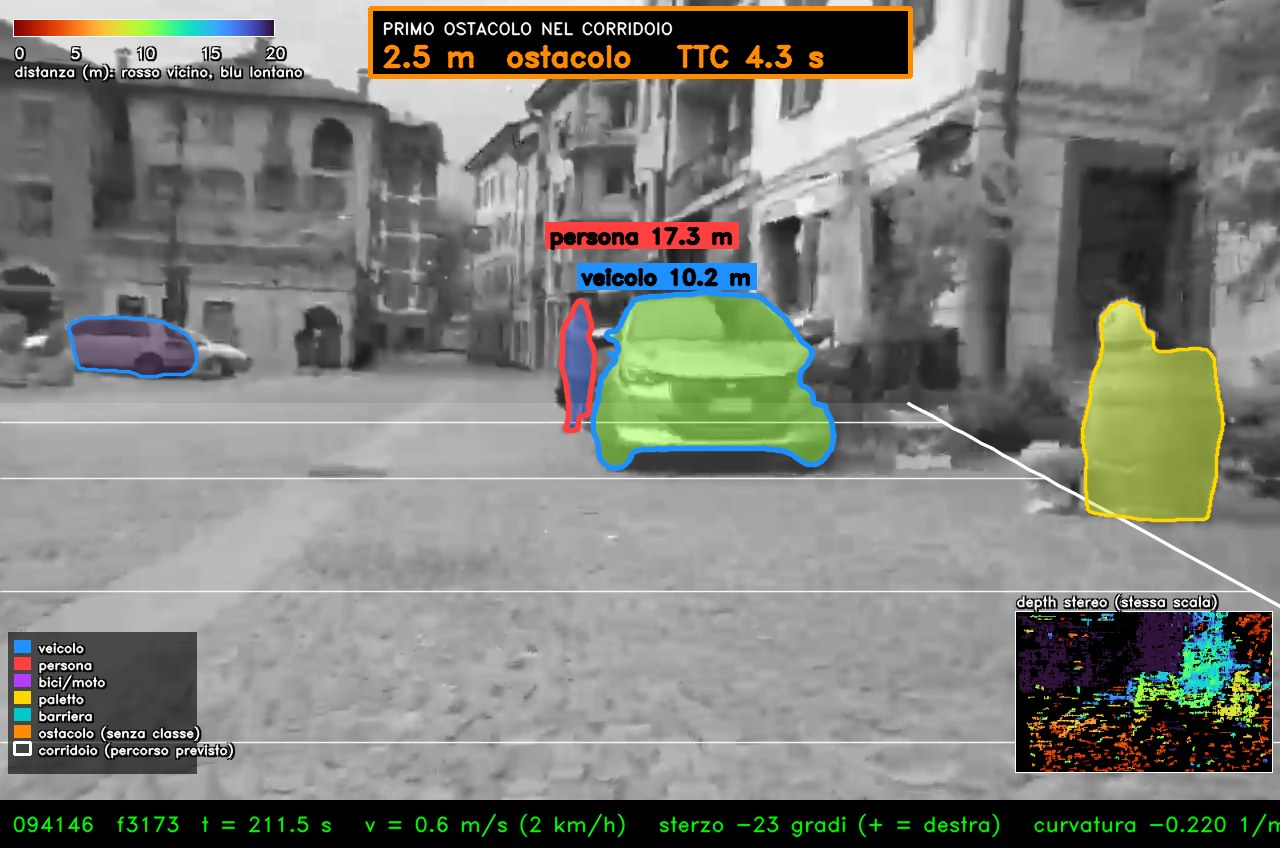
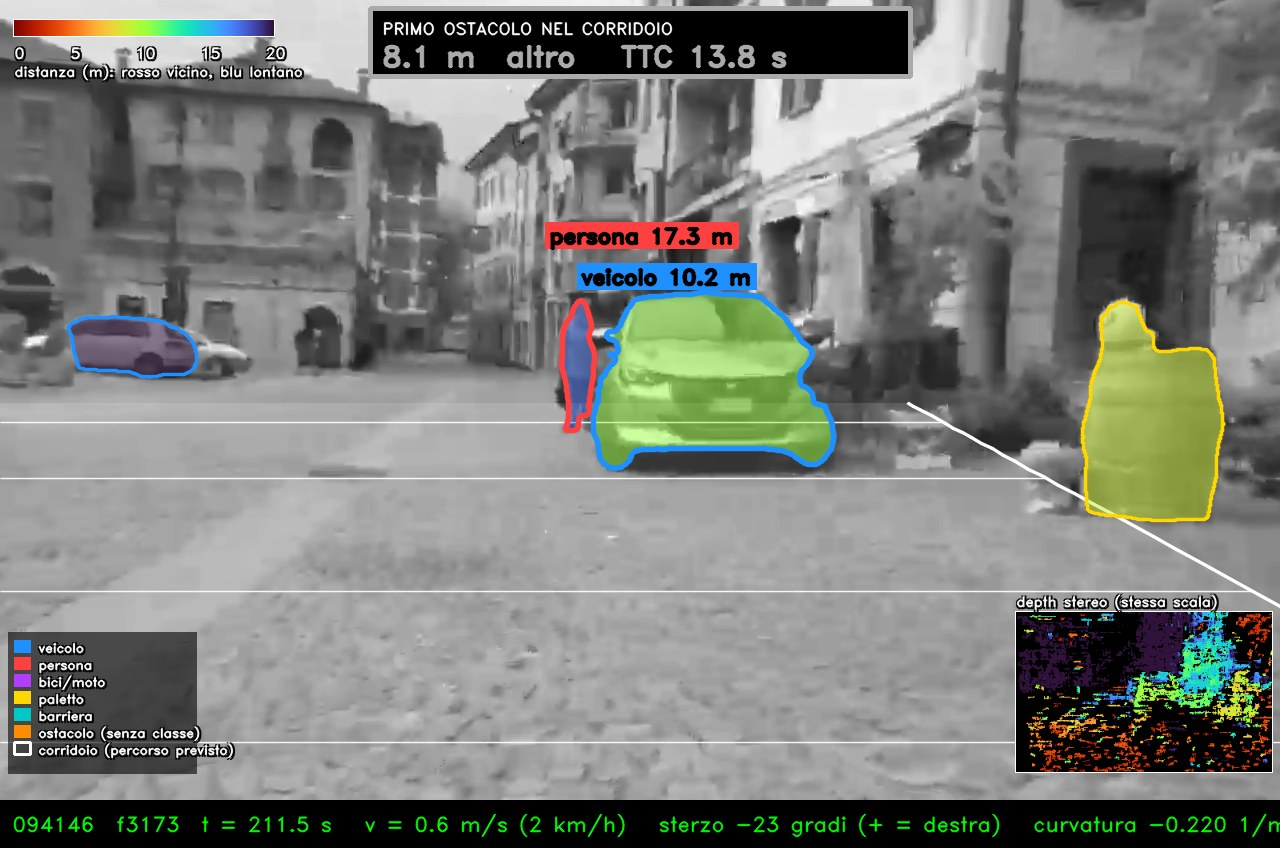
depth video #001 giro 8: box coast senza passo doppio e <50% dentro mai primo ostacolo, blob senza base sul piano strada (<5 m, non persone/veicoli) esclusi, corridoio limite dichiarato

Changed region(s): [[0.2812, 0.0, 0.7188, 0.092]]

diff --git a/projects/asmile/training/depth/video_fluido_001.py b/projects/asmile/training/depth/video_fluido_001.py
@@ -13,11 +13,13 @@ import depth_seg_001 as D
 from ego_001 import Ego, x_path, path_xz, x_arc
 
 W, H, BAR = 1280, 800, 48
-MODE = os.environ.get("VFMODE", "v7")          # "v6" = regole del giro 6 (per il prima/dopo), "v7" = regole del giro 7
+MODE = os.environ.get("VFMODE", "v8")          # "v6"/"v7" = regole dei giri 6/7 (per il prima/dopo), "v8" = v7 + correzioni bug del giro 8
+V7 = MODE in ("v7", "v8")
+V8 = MODE == "v8"
 PURE = os.environ.get("VF_PURE", "1") == "1"      # v7: terza ipotesi = arco a curvatura costante (il percorso reale in curva stretta si avvolge piu' del previsto)
 EXTRA = float(os.environ.get("VF_EXTRA", "0.1"))   # allargamento aggiuntivo del corridoio per m di distanza (m/m), 0 = nessuno
 OUT_A = os.path.join(D.HERE, "out_20261112_v6")  # stadio A (misure per fotogramma) INVARIATO: riletto da v6
-OUT = os.environ.get("VF_OUT", os.path.join(D.HERE, "out_20261112_v7"))
+OUT = os.environ.get("VF_OUT", os.path.join(D.HERE, "out_20261112_v8"))
 os.makedirs(OUT, exist_ok=True)
 Z_RAW_GAP, Z_RAW_MAXZ = 0.7, 8.0   # v7 punto 3: se Z_filtrata - Z_grezza > 0.7 m sotto 8 m si usa la grezza (vince la piu' vicina)
 HITS_BLOB_NEAR, ZNEAR_BLOB = 3, 5.0  # v7 punto 1: sotto 5 m un blob senza classe conferma a 3 fotogrammi come gli altri
@@ -47,7 +49,7 @@ def wband(Z): return 1.5 + 0.03 * Z
 
 def corr_edges(xc, Z):
     """bordi laterali del corridoio disegnato: v6 = banda attorno al percorso curvo; v7 = inviluppo delle due ipotesi (percorso curvo e dritto)"""
-    if MODE != "v7": return xc - wband(Z), xc + wband(Z)
+    if not V7: return xc - wband(Z), xc + wband(Z)
     w = wband(Z) + EXTRA * Z
     return min(xc, 0.0) - w, max(xc, 0.0) + w   # (l'arco puro, terza ipotesi, vale per la classificazione degli oggetti; il disegno mostra l'inviluppo dritto/decrescente)
 
@@ -55,8 +57,31 @@ def corr_edges(xc, Z):
 def need_hits(r):
     """fotogrammi richiesti perche' un oggetto conti come candidato/si disegni: blob 8 (v6); in v7 sotto 5 m anche i blob 3"""
     if r["src"] != "blob": return CONFIRM
-    if MODE == "v7" and r["Z"] < ZNEAR_BLOB: return HITS_BLOB_NEAR
+    if V7 and r["Z"] < ZNEAR_BLOB: return HITS_BLOB_NEAR
     return HITS_BLOB
+
+
+def inside_frac(b):
+    """frazione dell'area del box dentro l'immagine rettificata W x H"""
+    a = max(1e-9, (b[2] - b[0]) * (b[3] - b[1]))
+    return max(0, min(b[2], W) - max(b[0], 0)) * max(0, min(b[3], H) - max(b[1], 0)) / a
+
+
+MIN_INSIDE = 0.5      # v8: un box con meno del 50% dentro l'immagine non puo' essere primo ostacolo
+H_BASE_MIN, Z_BASE_MAX = 0.25, 5.0   # v8: base a meno di 0.25 m dal piano strada (come hmin delle versioni 2/3); regola solo sotto 5 m
+BASE_EXEMPT = ("persona", "veicolo")
+
+
+def base_height(r, gp):
+    """altezza (m) sul piano strada del punto piu' basso del box alla distanza misurata Z: h = CAM_H (d - d_g)/d, d = F B / Z, d_g = disparita' della strada nella riga y1 del box
+    (stessa formula di depth_seg_001.obstacles). None se la base non e' visibile (box tagliato dal bordo basso) o se non c'e' piano."""
+    if gp is None: return None
+    b = r["box"]
+    if b[3] >= H - 6: return None
+    ga, gvh, gb = gp
+    d = F_PX * B_M / max(r["Z"], 0.3); dg = ga * (b[3] - gvh)
+    if dg <= 0: return D.CAM_H
+    return float(D.CAM_H * (d - dg) / d)
 
 
 def iou(a, b):
@@ -87,6 +112,11 @@ class Track:
 
     @staticmethod
     def sig(Z): return float(np.hypot(0.03 * Z, Z * Z * 0.4 / (F_PX * B_M)))
+
+    def box_now(s):
+        """box nella posizione corrente del centro (tr.cen e' gia' stato avanzato di vel+rot a ogni fotogramma perso): v8 usa questo, NON un ulteriore passo di vel"""
+        w = s.box[2] - s.box[0]; h = s.box[3] - s.box[1]
+        return [s.cen[0] - w / 2, s.cen[1] - h / 2, s.cen[0] + w / 2, s.cen[1] + h / 2]
 
     def pred_box(s, rot=0.0):
         c = s.cen + s.vel + np.array([rot, 0.0]); w = s.box[2] - s.box[0]; h = s.box[3] - s.box[1]
@@ -156,10 +186,10 @@ def run_tracking(frames, ego, famv2):
         for tr in tracks:
             if tr.hits >= CONFIRM and tr.miss <= COAST:
                 tr.fam = max(set(tr.fams[-15:]), key=tr.fams[-15:].count)
-                pb = [int(v) for v in tr.pred_box(0.0)] if tr.miss else list(tr.o["box"])
+                pb = ([int(v) for v in (tr.box_now() if V8 else tr.pred_box(0.0))]) if tr.miss else list(tr.o["box"])
                 zf = float(tr.x[0]); zr = float(tr.o["Z_picco"]); zu = zf
-                if MODE == "v7" and not tr.miss and zf - zr > Z_RAW_GAP and zf < Z_RAW_MAXZ: zu = zr    # punto 3: il filtro non allontana: vince la grezza (piu' vicina)
-                rows.append(dict(id=tr.id, fam=tr.fam, src=tr.src, classe=tr.classe, Z=zu, Zf=zf, rawfix=zu != zf, w=float(tr.x[1]), Zraw=float(tr.o["Z_picco"]), tan=float(tr.tan), box=pb, poly=None if tr.miss else tr.o["poly"],
+                if V7 and not tr.miss and zf - zr > Z_RAW_GAP and zf < Z_RAW_MAXZ: zu = zr    # punto 3: il filtro non allontana: vince la grezza (piu' vicina)
+                rows.append(dict(inside=inside_frac(pb), id=tr.id, fam=tr.fam, src=tr.src, classe=tr.classe, Z=zu, Zf=zf, rawfix=zu != zf, w=float(tr.x[1]), Zraw=float(tr.o["Z_picco"]), tan=float(tr.tan), box=pb, poly=None if tr.miss else tr.o["poly"],
                                  decl=bool(np.mean(tr.decl[-8:]) > 0.5), sosp=bool(np.mean(tr.sosp[-8:]) > 0.5), ext=tr.o.get("ext", False), hits=tr.hits, coast=tr.miss > 0, track=tr))
         per.append(rows)
     return per
@@ -168,21 +198,25 @@ def run_tracking(frames, ego, famv2):
 def corridor_logic(per, frames, ego):
     """per ogni fotogramma: arco (k), appartenenza arco/dritta con isteresi, primo ostacolo (isteresi 0.5 m)"""
     res = []; prev_first = {"arc": None, "str": None}
-    for fr, rows in zip(frames, per):
-        k = float(ego.at(fr["t_ms"], "k")); pz, px = path_xz(k)
+    for fi, (fr, rows) in enumerate(zip(frames, per)):
+        k = float(ego.at(fr["t_ms"], "k")); pz, px = path_xz(k); gpf = smooth_gp(frames, fi) if V8 else None
         for r in rows:
             Z = r["Z"]; X = r["tan"] * Z; r["X"] = X
             dx_arc = X - float(np.interp(Z, pz, px)); tr = r["track"]
-            lim = (wband(Z) + (EXTRA * Z if MODE == "v7" else 0.0)) * (1.15 if tr.in_arc else 1.0)
+            lim = (wband(Z) + (EXTRA * Z if V7 else 0.0)) * (1.15 if tr.in_arc else 1.0)
             tr.in_arc = abs(dx_arc) <= lim; r["in_arc"] = tr.in_arc
             r["in_str"] = abs(X) <= wband(Z)
-            if MODE == "v7":   # punto 2: corridoio = unione delle ipotesi (percorso curvo O dritto), ognuna con la sua banda
+            if V7:   # punto 2: corridoio = unione delle ipotesi (percorso curvo O dritto), ognuna con la sua banda
                 lim2 = (wband(Z) + EXTRA * Z) * (1.15 if tr.in_str else 1.0)
                 tr.in_str = abs(X) <= lim2
                 r["in_arc_pure"] = r["in_arc"]; r["in_arc"] = bool(r["in_arc"] or tr.in_str); r["in_str"] = bool(r["in_str"] or tr.in_str)
                 if PURE and not r["in_arc"]:
                     r["in_arc"] = bool(abs(X - float(x_arc(k, Z))) <= wband(Z) + EXTRA * Z)
             r["cand"] = (not r["decl"]) and (not r["sosp"]) and r["hits"] >= need_hits(r)
+            r["fuori_img"] = bool(V8 and r["inside"] < MIN_INSIDE)
+            hb = base_height(r, gpf) if (V8 and r["Z"] < Z_BASE_MAX and r["fam"] not in BASE_EXEMPT) else None
+            r["h_base"] = hb; r["senza_base"] = bool(hb is not None and hb >= H_BASE_MIN)
+            if r["fuori_img"] or r["senza_base"]: r["cand"] = False
         first = {}
         for key, flag in (("arc", "in_arc"), ("str", "in_str")):
             c = [r for r in rows if r[flag] and r["cand"]]
@@ -241,7 +275,7 @@ def draw(img, fr, rows, cs, gp, zthumb, ego, sess, t0, i):
             if 0 < pts[0][1] < H - 10:
                 cv2.line(out, pts[0], pts[1], CORR, 1, cv2.LINE_AA); shadow(out, min(pts[0][0], pts[1][0]) + 8, pts[0][1] - 5, f"{Zt} m", 0.5, CORR, 1)
     first = cs["first"]["arc"]; fid = None if first is None else first["id"]
-    draw_rows = [r for r in rows if not r["coast"] and r["Z"] <= 40 and not r["decl"] and not (r["src"] == "blob" and r["hits"] < need_hits(r)) and not r["sosp"]
+    draw_rows = [r for r in rows if not r["coast"] and r["Z"] <= 40 and not r["decl"] and not (r["src"] == "blob" and r["hits"] < need_hits(r)) and not r["sosp"] and not r.get("fuori_img") and not r.get("senza_base")
                  and (r["src"] != "blob" or (r["in_arc"] and r["Z"] <= 8)) and (r["fam"] in ("persona", "veicolo", "bici-moto", "paletto-palo", "barriera-cancello", "ostacolo") or r["in_arc"] or r["Z"] < 8)]
     solid = [r for r in draw_rows if r["src"] != "blob"]
     cont_ = lambda a, b: max(0, min(a[2], b[2]) - max(a[0], b[0])) * max(0, min(a[3], b[3]) - max(a[1], b[1])) / max(1e-9, (a[2] - a[0]) * (a[3] - a[1]))
@@ -257,7 +291,7 @@ def draw(img, fr, rows, cs, gp, zthumb, ego, sess, t0, i):
         if r["poly"] is not None and len(r["poly"]) >= 3: cv2.polylines(out, [np.asarray(r["poly"], np.int32)], True, fc, th, cv2.LINE_AA)
         else: b = r["box"]; cv2.rectangle(out, (b[0], b[1]), (b[2], b[3]), fc, th)
     for r in [q for q in rows if not q["coast"]]:   # scartati/declassati: contorno grigio sottile se vicini
-        if (r["decl"] or r["sosp"]) and r["Z"] < 8 and r["poly"] is not None and len(r["poly"]) >= 3: cv2.polylines(out, [np.asarray(r["poly"], np.int32)], True, (110, 110, 110), 1, cv2.LINE_AA)
+        if (r["decl"] or r["sosp"] or r.get("senza_base")) and r["Z"] < 8 and r["poly"] is not None and len(r["poly"]) >= 3: cv2.polylines(out, [np.asarray(r["poly"], np.int32)], True, (110, 110, 110), 1, cv2.LINE_AA)
     if first is not None and not first["coast"]:
         b = first["box"]; cv2.rectangle(out, (b[0] - 4, b[1] - 4), (b[2] + 4, b[3] + 4), (255, 255, 255), 3)
     placed = []

diff --git a/projects/asmile/training/depth/verifica_v8_001.py b/projects/asmile/training/depth/verifica_v8_001.py
@@ -1,0 +1,83 @@
+#!/usr/bin/env python3
+"""verifica_v8_001.py (= verifica_v7 + elenco dei veri mancati con causa) — confronto prima/dopo del giro 7/8 (12/11/2026) con la traiettoria REALE ricostruita (encoder ruota + giroscopio gz, integrati nel tempo)
+e oggetti considerati FERMI (posizione mondo = mediana sulla vita della traccia, retrospettiva). Regole fissate prima:
+ - verita' 'in percorso reale': distanza minima dell'oggetto dai punti reali percorsi dalla bici da t fino a s(t)+Z+2 m <= 1.5 m; tracce con >=6 fotogrammi di vita, non declassate/sospette;
+ - verita' primo ostacolo <5 m = oggetto vero piu' vicino in percorso reale con Z<5;
+ - ritardo = corsa piu' lunga di fotogrammi consecutivi con verita' <5 m presente e primo ostacolo del sistema (corridoio) assente o >=5 m.
+Uso: verifica_v7_001.py DIR_TRACKS [SESSIONE]"""
+import sys, os, pickle, json, numpy as np
+from ego_001 import Ego
+d = sys.argv[1]; sess = sys.argv[2] if len(sys.argv) > 2 else "20261109_094146"
+T = pickle.load(open(os.path.join(d, f"tracks_{sess}.pkl"), "rb")); ego = Ego("session_" + sess)
+t = np.array(T["t_ms"]); n = len(t)
+# traiettoria reale su griglia ego
+psi = np.concatenate([[0], np.cumsum(np.radians(0.5 * (ego.yaw_s[1:] + ego.yaw_s[:-1])) * np.diff(ego.t) / 1000)])
+vv = ego.v_s; pe = np.concatenate([[0], np.cumsum(0.5 * (vv[1:] + vv[:-1]) * np.diff(ego.t) / 1000)])
+pn = np.concatenate([[0], np.cumsum(np.cos(psi[:-1]) * 0.5 * (vv[1:] + vv[:-1]) * np.diff(ego.t) / 1000)])
+pe = np.concatenate([[0], np.cumsum(np.sin(psi[:-1]) * 0.5 * (vv[1:] + vv[:-1]) * np.diff(ego.t) / 1000)])
+sarc = ego.s - ego.s[0]
+I = lambda a, x: np.interp(x, ego.t, a)
+# posizione mondo di ogni traccia (mediana)
+W = {}
+for i, rows in enumerate(T["per"]):
+    for r in rows:
+        if r["coast"]: continue
+        ps, e0, n0 = I(psi, t[i]), I(pe, t[i]), I(pn, t[i]); Z = r["Z"]; X = r["tan"] * Z
+        W.setdefault(r["id"], []).append((e0 + Z * np.sin(ps) + X * np.cos(ps), n0 + Z * np.cos(ps) - X * np.sin(ps)))
+life = {k: len(v) for k, v in W.items()}; Wm = {k: np.median(np.array(v), 0) for k, v in W.items()}
+def dpath(k, i):
+    s0 = I(sarc, t[i]); Z = None
+    msk = (ego.t >= t[i]) & (sarc <= s0 + 80)
+    return None
+truth = []; missrun = 0; best = 0; runs = []
+veh_out = []; first_Z = []
+for i, rows in enumerate(T["per"]):
+    s0 = I(sarc, t[i]); idx = np.nonzero((ego.t >= t[i] - 200))[0]
+    best_o = None
+    for r in rows:
+        if r["coast"] or r["decl"] or r["sosp"] or life[r["id"]] < 6 or r["Z"] > 25: continue
+        Z = r["Z"]; m = (ego.t >= t[i]) & (sarc <= s0 + Z + 2.0)
+        if m.sum() < 2: continue
+        dm = np.hypot(pe[m] - Wm[r["id"]][0], pn[m] - Wm[r["id"]][1]).min()
+        r["dreal"] = dm
+        if dm <= 1.5 and (best_o is None or Z < best_o["Z"]): best_o = r
+        if dm <= 1.5 and r["fam"] == "veicolo" and not r["in_arc"] and Z < 25: veh_out.append((i, r["id"], round(Z, 1), round(dm, 2)))
+    truth.append(best_o)
+fz = T["cs"]; sysfirst = [c["firstZ"]["arc"] for c in fz]
+cur = 0; runs = []; start = None
+for i in range(n):
+    tr = truth[i]
+    if tr is not None and tr["Z"] < 5 and (sysfirst[i] is None or sysfirst[i] >= 5):
+        if start is None: start = i
+    else:
+        if start is not None: runs.append((start, i - start)); start = None
+if start is not None: runs.append((start, n - start))
+runs.sort(key=lambda x: -x[1])
+fr = np.array([tr is not None and tr["Z"] < 5 for tr in truth]); nsys = int(sum(1 for i in range(n) if fr[i] and (sysfirst[i] is None or sysfirst[i] >= 5)))
+tf = {k: 0 for k in ("vehicle", "tot")}
+vids = {}
+for (i, k, z, dm) in veh_out: vids.setdefault(k, []).append(i)
+# Kalman: Z_filtrata - Z_grezza > 0.7 sotto 8 m
+gap = [(r["Zf"] if "Zf" in r else r["Z"]) - r["Zraw"] for rows in T["per"] for r in rows if not r["coast"] and r["Zraw"] < 8 and r["Z"] < 8]
+usegap = [r["Z"] - r["Zraw"] for rows in T["per"] for r in rows if not r["coast"] and r["Zraw"] < 8 and r["Z"] < 8]
+gapn = int(sum(g > 0.7 for g in gap)); usen = int(sum(g > 0.7 for g in usegap))
+# primo ostacolo con classe/senza
+fam_first = {}
+for i, c in enumerate(T["cs"]):
+    fid = c["first"]["arc"]
+    if fid is None: continue
+    r = next((q for q in T["per"][i] if q["id"] == fid), None)
+    if r: fam_first[r["fam"]] = fam_first.get(r["fam"], 0) + 1
+out = dict(sess=sess, n=n, fotogrammi_verita_sotto5=int(fr.sum()), fotogrammi_sistema_manca=nsys, corsa_max_fr=runs[0][1] if runs else 0, corsa_max_s=round((runs[0][1] / 15), 2) if runs else 0,
+           corse_top=[(int(a), int(b)) for a, b in runs[:5]], veicoli_vicini_traiett_fuori_corridoio_fotogrammi=len(veh_out), veicoli_id=sorted(vids), veicoli_fotogrammi_per_id={str(k): (min(v), max(v), len(v)) for k, v in vids.items()},
+           kalman_gap_gt07_sotto8=gapn, kalman_gap_dopo_uso=usen, righe_sotto8=len(gap), primo_per_famiglia=fam_first,
+           fotogrammi_con_primo=int(sum(z is not None for z in sysfirst)), fotogrammi_primo_sotto5=int(sum(z is not None and z < 5 for z in sysfirst)))
+miss = []
+for i in range(n):
+    tr = truth[i]
+    if tr is not None and tr["Z"] < 5 and (sysfirst[i] is None or sysfirst[i] >= 5):
+        miss.append(dict(i=i, frame=T["frames"][i], id=tr["id"], fam=tr["fam"], src=tr["src"], Z=round(tr["Z"], 2), box=tr["box"], inside=round(tr.get("inside", 1.0), 2),
+                         fuori=bool(tr.get("fuori_img", False)), senza_base=bool(tr.get("senza_base", False)), h_base=None if tr.get("h_base") is None else round(tr["h_base"], 2), dreal=round(tr["dreal"], 2), hits=tr["hits"]))
+out["mancanti"] = miss
+print(json.dumps(out, indent=1))
+json.dump(out, open(os.path.join(d, f"verifica_{sess}.json"), "w"), indent=1)

diff --git a/projects/asmile/training/depth/regress_v8_casi.py b/projects/asmile/training/depth/regress_v8_casi.py
@@ -1,0 +1,20 @@
+#!/usr/bin/env python3
+"""regress_v8_casi.py — regressione FINALE sui casi fissi del critico (SOLO lettura, mai per tarare): per ogni fotogramma, primo ostacolo scritto in v7 e in v8.
+Uso: regress_v8_casi.py CASI.json DIR_V7 DIR_V8"""
+import sys, json, pickle, os
+casi = json.load(open(sys.argv[1]))["casi"]; T = {}
+for nm, d in (("v7", sys.argv[2]), ("v8", sys.argv[3])): T[nm] = pickle.load(open(os.path.join(d, "tracks_20261109_094146.pkl"), "rb"))
+res = []
+for c in casi:
+    f = c["frame"]; row = dict(frame=f, atteso=c.get("atteso", c.get("nota")))
+    for nm, t in T.items():
+        i = t["frames"].index(f); fid = t["cs"][i]["first"]["arc"]
+        r = None if fid is None else next(q for q in t["per"][i] if q["id"] == fid)
+        row[nm] = None if r is None else dict(fam=r["fam"], Z=round(r["Z"], 2), box=r["box"], coast=r["coast"])
+    res.append(row)
+vero = [r for r in res if "vero" in (r["atteso"] or "")]; falsi = [r for r in res if "vero" not in (r["atteso"] or "")]
+for nm in ("v7", "v8"):
+    nf = sum(1 for r in falsi if r[nm] is not None); nv = sum(1 for r in vero if r[nm] is not None)
+    print(f"{nm}: falsi con banner {nf}/{len(falsi)}; veri con banner {nv}/{len(vero)}")
+json.dump(res, open(os.path.join(sys.argv[3], "regress_casi.json"), "w"), indent=1)
+for r in res: print(r["frame"], (r["atteso"] or "")[:28], "| v7", r["v7"], "| v8", r["v8"])

diff --git a/projects/asmile/agents/rapporti/depth_video_001_20261112_v8.md b/projects/asmile/agents/rapporti/depth_video_001_20261112_v8.md
@@ -1,0 +1,47 @@
+# Depth video #001, giro 8: box fuori immagine e blob senza base (12/11/2026)
+
+Verticale percezione, `asmile-depth`, gate `L1.depth_video`, solo #001 (calib provvisoria B30). Dopo il VETO di asmile-occhio su v7. Corretti SOLO i bug; filtro muri non toccato (aspetta Daniele); stadio A, regole di distanza e calib invariati. Codice: `training/depth/video_fluido_001.py` (modo `VFMODE=v8`, default; `v7` rigira ieri), `training/depth/verifica_v8_001.py` (verifica v7 + elenco dei veri mancati con causa), `training/depth/regress_v8_casi.py` (regressione sui casi del critico, solo lettura).
+
+Video (locali, mai su git; 1350 e 406 fotogrammi, 15 fps):
+- `/Users/danielerinaldi/progetti/Moving-One-Billion-People-/projects/asmile/training/depth/out_20261112_v8/video_fluido_094146_125-215.mp4` (90.0 s)
+- `/Users/danielerinaldi/progetti/Moving-One-Billion-People-/projects/asmile/training/depth/out_20261112_v8/video_fluido_093909.mp4` (27.1 s)
+
+## 1. Box fuori immagine: causa e correzione
+Misura prima di correggere (v7, 094146): 199/1338 "primo ostacolo" con box <50% dentro; **199/199 sono fotogrammi "coast"** (oggetto non visto da 1-4 fotogrammi, tenuto vivo dal Kalman). Famiglie: paletto 84, blob 48, altro 28, veicolo 18, persona 13, yolo 8. Non sono errori di proiezione/rettifica: i box misurati sono sempre dentro.
+Causa: in `run_tracking`, a ogni fotogramma perso `tr.cen` viene gia' avanzato di `vel + rot`; il box disegnato/usato era poi `pred_box(0)` = centro + **un secondo passo di vel**, senza alcun limite al bordo. Una traccia con `vel` alto (oggetto uscito dall'inquadratura) finiva sopra/sotto/di lato l'immagine (f3173: y da -227 a -84, nessun oggetto davanti).
+Correzione alla radice: il box coast e' la posizione corrente del centro (`box_now`, niente passo doppio). Regola di sicurezza: box con <50% dentro l'immagine (`inside_frac`) non e' candidato primo ostacolo e non si disegna (vale anche per i box misurati, ma nessuno cadeva li').
+
+## 2. Blob senza base sul piano strada
+Regola: oggetto che non e' persona/veicolo, Z < 5 m, con il punto piu' basso del box a h >= 0.25 m sopra il piano strada => "senza base", non candidato (resta nel CSV, contorno grigio nel video). h = CAM_H (d - d_g)/d con d = F B/Z e d_g = disparita' della strada alla riga y1 del box (piano: CAM_H 0.825, pitch 7.4 gradi, orizzonte mediano +-1 s, la stessa formula di `depth_seg_001.obstacles`). Se il box tocca il bordo basso (base non visibile) la regola non si applica. Soglie 0.25 m, 0.5, 5 m fissate prima (0.25 = hmin delle versioni 2/3), non cercate sui casi del critico. Sensibilita': errore di 10 px sulla riga base = ~0.02 m di h a 3 m, 10% su Z = ~0.08 m.
+Effetto: 871 righe / 123 tracce marcate senza base su 094146.
+
+## Misure prima/dopo (094146, 1350 fotogrammi; v7 = giro precedente)
+| Misura | v7 | v8 |
+|---|---|---|
+| Fotogrammi con primo ostacolo | 1338 | 1335 |
+| Primo ostacolo con box <50% dentro l'immagine | 199 (14.9%) | 0 |
+| Primo ostacolo che e' coast | 513 | 347 |
+| Fotogrammi con primo ostacolo < 5 m | 558 | 374 |
+| Veicoli entro 1.5 m dalla traiettoria reale ma fuori corridoio (encoder+gz) | 0 | 0 |
+| Fotogrammi con ostacolo vero < 5 m (definizione v7) senza primo < 5 m | 0 (corsa max 0) | 47 (corsa max 6 fotogrammi = 0.4 s) |
+
+I 47 fotogrammi sono tutti blob senza classe (16 tracce, h base 0.25-0.36 m, box fino al bordo alto). "Vero" nella verifica = qualunque blob con vita >= 6 fotogrammi entro 1.5 m dal percorso: non e' una verita' di oggetto. Guardate a occhio 2 tracce su 16 (f2084, f2190, rese con il codice v7): sono muri/portoni, non ostacoli (il banner v7 a f2084 diceva "altro 1.5 m, TTC 0.5 s" su un muro). Le altre 14 tracce NON guardate: restano possibili perdite vere (0.4 s al massimo consecutivi). Nessuna persona, veicolo o paletto con classe e' stato perso. 093909: 0 mancanti, 0 veicoli fuori corridoio.
+
+## Campione del critico (casi_fissi_v7.json, usato solo come regressione finale)
+39 voci: 28 "nessun primo ostacolo da questo box" (26 frame + 2 note), 11 veri (fioriere/vaso/barile).
+- Falsi con primo ostacolo < 5 m: v7 20/28 -> v8 7/28 (f2100, 2748, 2779, 2781, 2783, 2091, 2199).
+- Falsi con box che esce dall'immagine: v7 10 -> v8 0. f3173: ora "altro 8.1 m" (coast, box [1039,455,1114,524]), non piu' 2.5 m su ciottoli; a occhio nel fotogramma l'oggetto non e' identificabile.
+- Veri: banner presente 11/11 in v7 e v8, distanze identiche (fioriere 5.6-12.7 m, vaso 8.15, barile 8.1: non sono < 5 m, quindi la regola base non li riguarda).
+- Residui NON risolti: f2091 (3.8 m), f2199 (3.6 m), f2748 (4.7 m), f2781-2783 (3.8-4.7 m) sono muri/pilastri/portoni con base sul piano (f2781 guardato: parete a destra), cioe' il filtro muri che aspetta Daniele. f2100 paletto 4.35 m (box 414-475, alto 644 px) non verificato.
+Obiettivo del critico "0 banner sui 26 falsi" NON raggiunto: 7 su 28 restano, tutti muri veri con base a terra.
+
+## 3. Corridoio: limite dichiarato, nessuna modifica
+Il critico ha 9/109 veicoli/persone fuori campione (330-662 s, 1 Hz) entro 1.5 m dalla traiettoria reale ma fuori dal corridoio v7: curva stretta k=-0.1 a 12-15 m (f5882-5961) e sterzata tardiva con k~0 (f8785-8815). Non ho ritoccato la banda. Il limite e' strutturale: il corridoio e' costruito dalla curvatura ATTUALE (giroscopio+encoder) estrapolata (decrescente, dritta, arco costante); la curva che la bici fara' fra 3-5 s non e' nel segnale e a 12-15 m di distanza e' ancora nel futuro. Allargare la banda sposta solo i falsi positivi. Il v8 non migliora ne' peggiora questo numero (non rimisurato: la sessione 330-662 s non ha lo stadio A di SAM).
+Soluzione fisica proposta per dopo (NON fatta): corridoio dalla traiettoria PIANIFICATA, non da quella attuale: percorso = uscita del planner (sterzo comandato/lookahead sul bordo strada o sulla guida di Daniele nei dati di allenamento, spazzata di bici +-0.45 m piu' margine), valutato fuori campione con la traiettoria reale ricostruita; nel frattempo, per il freno, usare il TTC lungo la traiettoria attuale solo fino a ~8 m (dove la curvatura attuale e' affidabile: autocorrelazione 0.27 a 4 m) e trattare veicoli/persone laterali oltre come "da monitorare".
+
+## Limiti
+- Verita' = traiettoria ricostruita e oggetti ritenuti fermi, non il metro in moto.
+- 14 delle 16 tracce "perse" della regola base non guardate; 0.25 m e' una soglia unica a tutte le distanze <5 m.
+- Muri con base a terra restano primi ostacoli (filtro muri non fatto): 7/28 falsi del critico.
+- Il coast resta il 26% dei primi ostacoli (347/1335): fino a 4 fotogrammi (0.27 s) senza misura.
+- TTC persone/veicoli non validato; distanze invariate (pendenza 1.12 non risolta).

diff --git a/projects/asmile/agents/lezioni/asmile-depth.md b/projects/asmile/agents/lezioni/asmile-depth.md
@@ -24,3 +24,6 @@ Scritte da palla.py dai VETO dei contro-agenti. Leggile prima di ogni lavoro.
 - 2026-11-12 SBAGLIATO (`agents/rapporti/depth_video_001_20261112_v6.md`): Corridoio ad arco puro nella prima versione (fuori strada a 20 m con k=0.03): visto solo dal jpg; HITS_BLOB=8, L_TAPER=3.5 e COAST=4 scelti senza held-out, fit sulla stessa sessione; pendenza -dZ/ds 1.12 (n=23) non spiegata e diversa da 0.98 di v5; orizzonte misurato (riga 386, ~0.9 gradi) incoerente con 7.4 gradi, non capito; 'muri laterali' = blob senza classe, mai verificato guardandoli uno a uno; TTC persone/veicoli non validato; bash sed BSD e cartelle non trovate (3 tentativi persi); Kalman gate/jitter ancora 7% dei salti >0.5 m; nessuna verita col metro in moto.
 - 2026-11-12 GIUSTO (`agents/rapporti/depth_video_001_20261112_v7.md`): Prima di cambiare ho riprodotto v6 in modalita' VFMODE=v6 (cs identico) e ho misurato i punti di occhio con la traiettoria reale: 77 fotogrammi veicolo fuori corridoio, corsa 0.4 s; scelta del corridoio a gradini (37, 7, 3, 17, 0) invece di un numero a occhio; prezzo muri contato e dichiarato (121 fotogrammi liberi->occupati).
 - 2026-11-12 SBAGLIATO (`agents/rapporti/depth_video_001_20261112_v7.md`): Prima ho passato la sessione senza nome completo (cartella non trovata); extra 0.1Z e arco costante tarati sulla stessa sessione su 4 veicoli; verita' = oggetti fermi ricostruiti, non il metro; i 207 fotogrammi blob/altro nuovi non guardati uno a uno; f3173 non verificato a occhio; 093909 senza ostacoli veri <5 m nella mia definizione.
+- 2026-11-12 **VETO** di asmile-occhio su `agents/rapporti/depth_video_001_20261112_v7.md` (gate L1.depth_video): Corridoio v7 migliora ma non e' 0 fuori campione: su 094146 330-662 s (proxy 1 Hz, oggetti fermi, traiettoria reale encoder+gz) 9/109 veicoli/persone sulla traiettoria reale fuori corridoio v7 (v6 23/109; 4/49 anche dentro 125-215), tutti in curva stretta k=-0.1 a 12-15 m (f5882-5961) o sterzata tardiva con k~0 (f8785-8815): il 0 e' adattamento parziale. Blob <5 m: nessun mancato. PREZZO NON ACCETTABILE: dei 207 fotogrammi nuovi blob/altro ne ho guardati 30 a caso: 19 muri/vegetazione/insegne/vetrine/fuori immagine (63%), 11 oggetti veri (fioriere), con banner TTC 0.4-1.3 s su muri (f2091 1.4 m, f1929, f2199). f3173 2.5 m = FALSO: box [890,-227,1137,-84] sopra il bordo dell immagine, nulla davanti (asfalto/ciottoli). Bug: 199/1338 'primo ostacolo' (15%) e 32/207 dei nuovi hanno box <50% dentro l'immagine. Da fare: (1) scartare dal primo ostacolo i blob/altro con box <50% dentro l'immagine e quelli senza base sul piano strada (altezza dal suolo h<0.25 m del punto piu' basso); (2) test di superficie verticale/obliqua (disparita' lineare in x lungo il blob = muro) per blob grandi; (3) rieseguire e contare sui miei casi fissi agents/prove/occhio_depth_video_v7_f79b31d2/casi_fissi_v7.json: 0 banner sui 26 frame muro/falsi, banner mantenuto sui 11 veri; (4) corridoio: valutare a 15 fps su un tratto con SAM fluido diverso da 125-215 (230-320 s e' fermo).
+- 2026-11-12 GIUSTO (`agents/rapporti/depth_video_001_20261112_v8.md`): Misurato prima di correggere: 199/199 box fuori erano coast, causa = passo doppio di vel sul box predetto (non proiezione); soglie 0.5/0.25/5 m fissate prima; casi del critico usati solo in regressione finale; due tracce delle 'perse' guardate a occhio e sono muri; limite del corridoio dichiarato senza ritoccare la banda
+- 2026-11-12 SBAGLIATO (`agents/rapporti/depth_video_001_20261112_v8.md`): 14 delle 16 tracce perse dalla regola base non guardate (0.4 s di corsa max possibile perdita vera); 7/28 falsi del critico restano (muri con base a terra, filtro muri non fatto) quindi obiettivo 0 banner non raggiunto; soglia h 0.25 unica e non validata con il metro; corridoio 9/109 non rimisurato in v8; f3173 'altro 8.1 m' coast non identificato; f2100 paletto non verificato

diff --git a/projects/asmile/agents/decisioni/asmile-depth.md b/projects/asmile/agents/decisioni/asmile-depth.md
@@ -21,3 +21,4 @@ Scritte con `palla.py decido` mentre lavora. Append-only: una decisione sbagliat
 - 2026-11-12 17:09 **corridoio curvo v6: curvatura da giroscopio gz + encoder, ramo sterzo sotto 1.5 m/s** → k=yaw_dx/v (yaw_dx=-(gz-1.75 dps), media centrata +-0.2 s); per v<1.5 m/s k=0.00968*sterzo_deg (c fittato sui dati, corr 0.93); corridoio = arco di larghezza invariata 1.5+0.03Z; passata blob aggiuntiva solo in curva (|k|>0.01) sui pixel dentro l'arco e fuori dalla banda dritta; passata S identica a v5. Perché: gz corr -0.952 con lo sterzo (gx 0.02, gy -0.15), picco di correlazione a lag 0; con v<1.5 il rapporto yaw/v e' instabile; senza la passata E gli ostacoli senza classe fuori banda dritta ma dentro l'arco non sarebbero mai misurati. Scartato: sterzo come unica sorgente (non e' rotazione reale); k=yaw/v senza soglia (esplode a bici ferma). Evidenza: `training/depth/ego_001.py`.
 - 2026-11-12 18:10 **corridoio v6: arco a curvatura decrescente invece di arco puro** → percorso previsto con k(s)=k0*exp(-s/3.5 m); stessa larghezza 1.5+0.03Z; rigirata la passata A (SAM in cache). Perché: misurato su 094146 (v>1.5): la curvatura si decorrela in ~4 m di percorso (autocorr 0.61 a 2 m, 0.27 a 4 m, 0.08 a 6 m); l'arco puro a 10 m sbaglia di 0.52 m mediana / 6 m p90 contro 0.33 / 2.1 con la curvatura decrescente (rettilineo 0.39 / 2.4); nel video l'arco puro portava il corridoio fuori strada a 20 m con k=0.03. Stima sulla stessa sessione, non held-out. Scartato: arco puro (peggiore del rettilineo oltre ~8 m); fine del corridoio al raggio 1/k (taglia gli ostacoli lontani). Evidenza: `training/depth/ego_001.py`.
 - 2026-11-12 18:38 **depth video giro 7: tre correzioni di occhio** → (1) blob senza classe confermano a 3 fotogrammi sotto 5 m (8 sopra); (2) corridoio = unione di tre ipotesi: percorso curvo a curvatura decrescente, dritto, arco a curvatura costante, ciascuna con banda 1.5+0.03Z+0.1Z (+0.5 m ogni 5 m, scelta data da occhio); (3) Z mostrata/usata = grezza se Z filtrata - Z grezza > 0.7 m sotto 8 m. Perché: Misurato con traiettoria reale ricostruita (encoder+gz, oggetti fermi): v6 aveva 77 fotogrammi con veicoli entro 1.5 m dalla traiettoria reale fuori corridoio (id 1, 826, 837, 3041); solo l'unione dritto/decrescente li lasciava a 37, +0.1Z a 7, con arco costante e 0.1Z a 0. Curva stretta k=0.28 a f2425-2430: il percorso reale si avvolge piu' del previsto. Scartato: solo allargare a 0.2Z senza arco costante (3 fotogrammi residui, corridoio piu' largo); arco costante senza extra (17 residui). Evidenza: `training/depth/verifica_v7_001.py`.
+- 2026-11-12 18:49 **depth video giro 8: bug box fuori immagine + blob senza base** → causa box fuori = box dei fotogrammi 'coast' (oggetto perso fino a 4 fotogrammi): tr.cen e' gia' avanzato di vel+rot a ogni perso e pred_box aggiungeva un secondo passo di vel, senza limite al bordo; 199/199 erano coast. v8: box = posizione corrente del centro (box_now), inside_frac<0.5 => non candidato (e non disegnato); blob/altri (non persona/veicolo) con Z<5 m e base del box a h>=0.25 m sopra il piano strada (h=CAM_H(d-dg)/d, dg dal piano ga/gvh) => non candidato; base non visibile (box al bordo basso) => passa. Corridoio non toccato: limite dichiarato.. Perché: misurato prima: 199/199 coast; soglie 0.5 e 0.25 fissate prima (0.25 = hmin delle versioni 2/3), non tarate sui casi del critico (regressione solo alla fine). Scartato: ritoccare la banda del corridoio guardando f5882-5961/f8785-8815 (ordine: limite dichiarato); filtro muri (aspetta Daniele); tagliare solo il box senza correggere il passo doppio. Evidenza: `agents/rapporti/depth_video_001_20261112_v8.md`.
